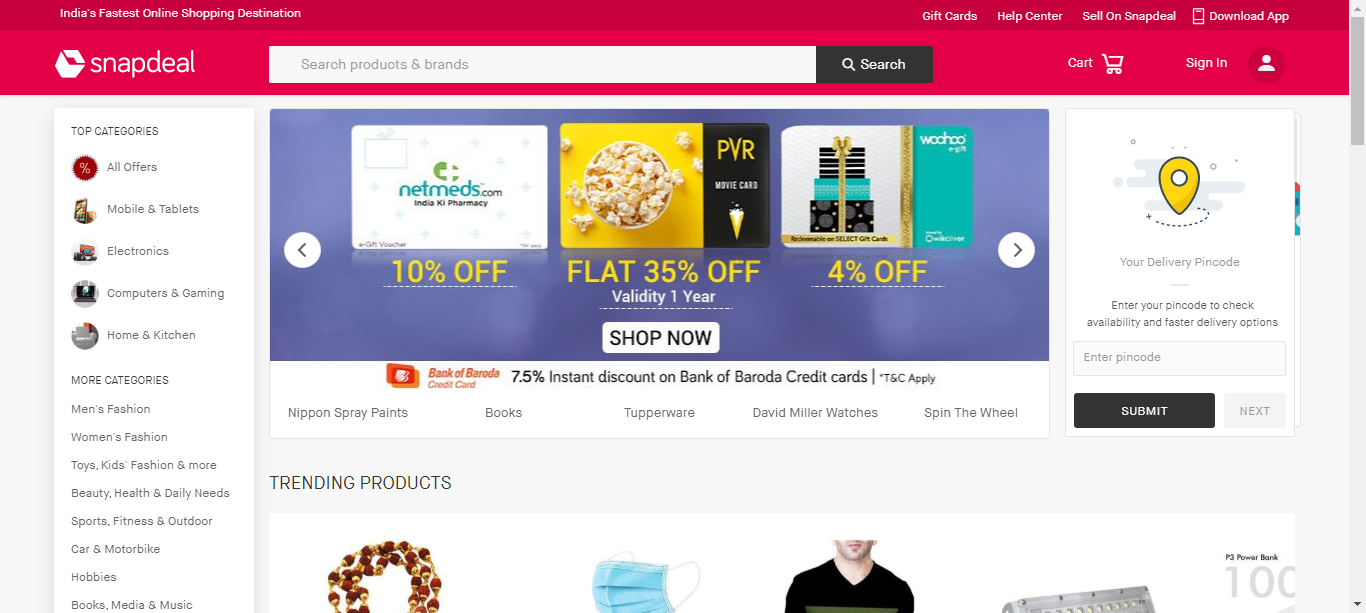
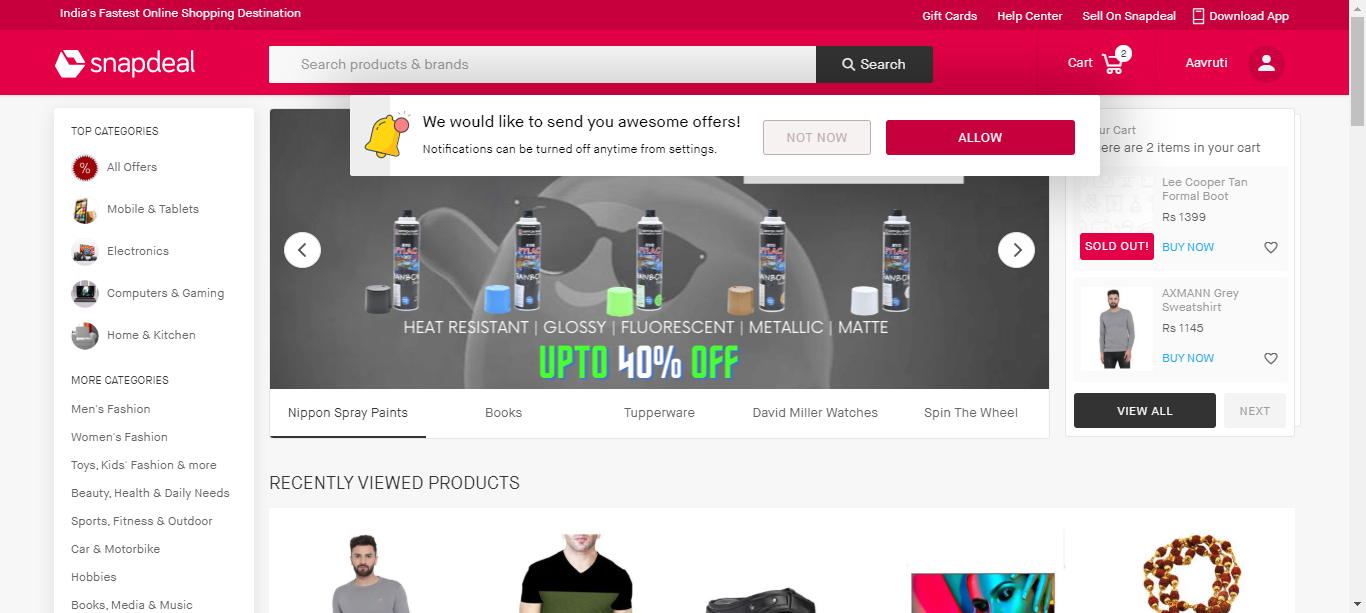
Framework7

diff --git a/test-output/index.html b/test-output/index.html
@@ -49,7 +49,7 @@
               <ul>
                 <li>
                   <a href="#" class="navigator-link " panel-name="test-xml-Default_suite">
-                    <span>C:\Users\AAVRUTI\AppData\Local\Temp\testng-eclipse--2083444913\testng-customsuite.xml</span>
+                    <span>C:\Users\AAVRUTI\AppData\Local\Temp\testng-eclipse-1803467441\testng-customsuite.xml</span>
                   </a> <!-- navigator-link  -->
                 </li>
                 <li>
@@ -102,7 +102,7 @@
                     <div class="method-list-content passed suite-Default_suite">
                       <span>
                         <img width="3%" src="passed.png"/>
-                        <a href="#" class="method navigator-link" panel-name="suite-Default_suite" title="com.technocredits.snapdeal.testscripts.SnapDealLoginTest" hash-for-method="loginVerification(8485033276, viplove01, Aavruti)">loginVerification(8485033276, viplove01, Aavruti)</a> <!-- method navigator-link -->
+                        <a href="#" class="method navigator-link" panel-name="suite-Default_suite" title="com.technocredits.snapdeal.testscripts.SnapDealLoginTest" hash-for-method="loginVerification(aavrutid@yahoo.com, Viplove@01, Aavruti Dalmia)">loginVerification(aavrutid@yahoo.com, Viplove@01, Aavruti Dalmia)</a> <!-- method navigator-link -->
                       </span>
                       <br/>
                     </div> <!-- method-list-content passed suite-Default_suite -->
@@ -125,10 +125,10 @@
             <div class="main-panel-content rounded-window-bottom">
               <div class="method">
                 <div class="method-content">
-                  <a name="loginVerification(8485033276, viplove01, Aavruti)">
-                  </a> <!-- loginVerification(8485033276, viplove01, Aavruti) -->
+                  <a name="loginVerification(aavrutid@yahoo.com, Viplove@01, Aavruti Dalmia)">
+                  </a> <!-- loginVerification(aavrutid@yahoo.com, Viplove@01, Aavruti Dalmia) -->
                   <span class="method-name">loginVerification</span>
-                  <span class="parameters">(8485033276, viplove01, Aavruti)</span>
+                  <span class="parameters">(aavrutid@yahoo.com, Viplove@01, Aavruti Dalmia)</span>
                 </div> <!-- method-content -->
               </div> <!-- method -->
             </div> <!-- main-panel-content rounded-window-bottom -->
@@ -136,7 +136,7 @@
         </div> <!-- panel Default_suite -->
         <div panel-name="test-xml-Default_suite" class="panel">
           <div class="main-panel-header rounded-window-top">
-            <span class="header-content">C:\Users\AAVRUTI\AppData\Local\Temp\testng-eclipse--2083444913\testng-customsuite.xml</span>
+            <span class="header-content">C:\Users\AAVRUTI\AppData\Local\Temp\testng-eclipse-1803467441\testng-customsuite.xml</span>
           </div> <!-- main-panel-header rounded-window-top -->
           <div class="main-panel-content rounded-window-bottom">
             <pre>
@@ -189,12 +189,12 @@ data.addRows(1);
 data.setCell(0, 0, 0)
 data.setCell(0, 1, 'loginVerification')
 data.setCell(0, 2, 'com.technocredits.snapdeal.testscripts.SnapDealLoginTest')
-data.setCell(0, 3, 12406);
+data.setCell(0, 3, 82379);
 window.suiteTableData['Default_suite']= { tableData: data, tableDiv: 'times-div-Default_suite'}
 return data;
 }
               </script>
-              <span class="suite-total-time">Total running time: 12 seconds</span>
+              <span class="suite-total-time">Total running time: 1 minutes</span>
               <div id="times-div-Default_suite">
               </div> <!-- times-div-Default_suite -->
             </div> <!-- times-div -->
@@ -226,12 +226,12 @@ return data;
                 <span class="method-start">0 ms</span>
               </div> <!-- configuration-method before -->
               <div class="test-method">
-                <span class="method-name">loginVerification(8485033276, viplove01, Aavruti)</span>
-                <span class="method-start">15925 ms</span>
+                <span class="method-name">loginVerification(aavrutid@yahoo.com, Viplove@01, Aavruti Dalmia)</span>
+                <span class="method-start">15210 ms</span>
               </div> <!-- test-method -->
               <div class="configuration-method after">
                 <span class="method-name">teardown([TestResult name=loginVerification status=SUCCESS method=SnapDealLoginTest.loginVerification(java.la...)</span>
-                <span class="method-start">28334 ms</span>
+                <span class="method-start">97591 ms</span>
               </div> <!-- configuration-method after -->
           </div> <!-- main-panel-content rounded-window-bottom -->
         </div> <!-- panel -->

diff --git a/test-output/emailable-report.html b/test-output/emailable-report.html
@@ -1,2 +1,2 @@
 <!DOCTYPE html PUBLIC "-//W3C//DTD XHTML 1.1//EN" "http://www.w3.org/TR/xhtml11/DTD/xhtml11.dtd">
-<html xmlns="http://www.w3.org/1999/xhtml"><head><title>TestNG Report</title><style type="text/css">table {margin-bottom:10px;border-collapse:collapse;empty-cells:show}th,td {border:1px solid #009;padding:.25em .5em}th {vertical-align:bottom}td {vertical-align:top}table a {font-weight:bold}.stripe td {background-color: #E6EBF9}.num {text-align:right}.passedodd td {background-color: #3F3}.passedeven td {background-color: #0A0}.skippedodd td {background-color: #DDD}.skippedeven td {background-color: #CCC}.failedodd td,.attn {background-color: #F33}.failedeven td,.stripe .attn {background-color: #D00}.stacktrace {white-space:pre;font-family:monospace}.totop {font-size:85%;text-align:center;border-bottom:2px solid #000}</style></head><body><table><tr><th>Test</th><th># Passed</th><th># Skipped</th><th># Failed</th><th>Time (ms)</th><th>Included Groups</th><th>Excluded Groups</th></tr><tr><th colspan="7">Default suite</th></tr><tr><td><a href="#t0">Default test</a></td><td class="num">1</td><td class="num">0</td><td class="num">0</td><td class="num">32,931</td><td></td><td></td></tr></table><table><thead><tr><th>Class</th><th>Method</th><th>Start</th><th>Time (ms)</th></tr></thead><tbody><tr><th colspan="4">Default suite</th></tr></tbody><tbody id="t0"><tr><th colspan="4">Default test &#8212; passed</th></tr><tr class="passedeven"><td rowspan="1">com.technocredits.snapdeal.testscripts.SnapDealLoginTest</td><td><a href="#m0">loginVerification</a></td><td rowspan="1">1600448365531</td><td rowspan="1">12406</td></tr></tbody></table><h2>Default test</h2><h3 id="m0">com.technocredits.snapdeal.testscripts.SnapDealLoginTest#loginVerification</h3><table class="result"><tr class="param"><th>Parameter #1</th><th>Parameter #2</th><th>Parameter #3</th></tr><tr class="param stripe"><td>8485033276</td><td>viplove01</td><td>Aavruti</td></tr></table><p class="totop"><a href="#summary">back to summary</a></p></body></html>
+<html xmlns="http://www.w3.org/1999/xhtml"><head><title>TestNG Report</title><style type="text/css">table {margin-bottom:10px;border-collapse:collapse;empty-cells:show}th,td {border:1px solid #009;padding:.25em .5em}th {vertical-align:bottom}td {vertical-align:top}table a {font-weight:bold}.stripe td {background-color: #E6EBF9}.num {text-align:right}.passedodd td {background-color: #3F3}.passedeven td {background-color: #0A0}.skippedodd td {background-color: #DDD}.skippedeven td {background-color: #CCC}.failedodd td,.attn {background-color: #F33}.failedeven td,.stripe .attn {background-color: #D00}.stacktrace {white-space:pre;font-family:monospace}.totop {font-size:85%;text-align:center;border-bottom:2px solid #000}</style></head><body><table><tr><th>Test</th><th># Passed</th><th># Skipped</th><th># Failed</th><th>Time (ms)</th><th>Included Groups</th><th>Excluded Groups</th></tr><tr><th colspan="7">Default suite</th></tr><tr><td><a href="#t0">Default test</a></td><td class="num">1</td><td class="num">0</td><td class="num">0</td><td class="num">103,349</td><td></td><td></td></tr></table><table><thead><tr><th>Class</th><th>Method</th><th>Start</th><th>Time (ms)</th></tr></thead><tbody><tr><th colspan="4">Default suite</th></tr></tbody><tbody id="t0"><tr><th colspan="4">Default test &#8212; passed</th></tr><tr class="passedeven"><td rowspan="1">com.technocredits.snapdeal.testscripts.SnapDealLoginTest</td><td><a href="#m0">loginVerification</a></td><td rowspan="1">1600540336900</td><td rowspan="1">82379</td></tr></tbody></table><h2>Default test</h2><h3 id="m0">com.technocredits.snapdeal.testscripts.SnapDealLoginTest#loginVerification</h3><table class="result"><tr class="param"><th>Parameter #1</th><th>Parameter #2</th><th>Parameter #3</th></tr><tr class="param stripe"><td>aavrutid@yahoo.com</td><td>Viplove@01</td><td>Aavruti Dalmia</td></tr></table><p class="totop"><a href="#summary">back to summary</a></p></body></html>

diff --git a/test-output/old/Default suite/methods-alphabetical.html b/test-output/old/Default suite/methods-alphabetical.html
@@ -1,10 +1,10 @@
 <h2>Methods run, sorted chronologically</h2><h3>&gt;&gt; means before, &lt;&lt; means after</h3><p/><br/><em>Default suite</em><p/><small><i>(Hover the method name to see the test class name)</i></small><p/>
 <table border="1">
 <tr><th>Time</th><th>Delta (ms)</th><th>Suite<br>configuration</th><th>Test<br>configuration</th><th>Class<br>configuration</th><th>Groups<br>configuration</th><th>Method<br>configuration</th><th>Test<br>method</th><th>Thread</th><th>Instances</th></tr>
-<tr bgcolor="9d9cb5">  <td>20/09/18 22:29:25</td>   <td>0</td> <td>&nbsp;</td><td>&nbsp;</td><td>&nbsp;</td><td>&nbsp;</td><td>&nbsp;</td><td title="SnapDealLoginTest.loginVerification(java.lang.String, java.lang.String, java.lang.String)[pri:0, instance:com.technocredits.snapdeal.testscripts.SnapDealLoginTest@18be83e4]">loginVerification</td> 
+<tr bgcolor="9d9cb5">  <td>20/09/20 00:02:16</td>   <td>0</td> <td>&nbsp;</td><td>&nbsp;</td><td>&nbsp;</td><td>&nbsp;</td><td>&nbsp;</td><td title="SnapDealLoginTest.loginVerification(java.lang.String, java.lang.String, java.lang.String)[pri:0, instance:com.technocredits.snapdeal.testscripts.SnapDealLoginTest@18be83e4]">loginVerification</td> 
   <td>main@1967892594</td>   <td></td> </tr>
-<tr bgcolor="e6e9c3">  <td>20/09/18 22:29:09</td>   <td>-15925</td> <td>&nbsp;</td><td>&nbsp;</td><td>&nbsp;</td><td>&nbsp;</td><td title="&gt;&gt;TestBase.setup()[pri:0, instance:com.technocredits.snapdeal.testscripts.SnapDealLoginTest@18be83e4]">&gt;&gt;setup</td> 
+<tr bgcolor="e6e9c3">  <td>20/09/20 00:02:01</td>   <td>-15209</td> <td>&nbsp;</td><td>&nbsp;</td><td>&nbsp;</td><td>&nbsp;</td><td title="&gt;&gt;TestBase.setup()[pri:0, instance:com.technocredits.snapdeal.testscripts.SnapDealLoginTest@18be83e4]">&gt;&gt;setup</td> 
 <td>&nbsp;</td>  <td>main@1967892594</td>   <td></td> </tr>
-<tr bgcolor="e6e9c3">  <td>20/09/18 22:29:37</td>   <td>12410</td> <td>&nbsp;</td><td>&nbsp;</td><td>&nbsp;</td><td>&nbsp;</td><td title="&lt;&lt;TestBase.teardown(org.testng.ITestResult)[pri:0, instance:com.technocredits.snapdeal.testscripts.SnapDealLoginTest@18be83e4]">&lt;&lt;teardown</td> 
+<tr bgcolor="e6e9c3">  <td>20/09/20 00:03:39</td>   <td>82382</td> <td>&nbsp;</td><td>&nbsp;</td><td>&nbsp;</td><td>&nbsp;</td><td title="&lt;&lt;TestBase.teardown(org.testng.ITestResult)[pri:0, instance:com.technocredits.snapdeal.testscripts.SnapDealLoginTest@18be83e4]">&lt;&lt;teardown</td> 
 <td>&nbsp;</td>  <td>main@1967892594</td>   <td></td> </tr>
 </table>

diff --git a/test-output/old/Default suite/methods.html b/test-output/old/Default suite/methods.html
@@ -1,10 +1,10 @@
 <h2>Methods run, sorted chronologically</h2><h3>&gt;&gt; means before, &lt;&lt; means after</h3><p/><br/><em>Default suite</em><p/><small><i>(Hover the method name to see the test class name)</i></small><p/>
 <table border="1">
 <tr><th>Time</th><th>Delta (ms)</th><th>Suite<br>configuration</th><th>Test<br>configuration</th><th>Class<br>configuration</th><th>Groups<br>configuration</th><th>Method<br>configuration</th><th>Test<br>method</th><th>Thread</th><th>Instances</th></tr>
-<tr bgcolor="e6e9c3">  <td>20/09/18 22:29:09</td>   <td>0</td> <td>&nbsp;</td><td>&nbsp;</td><td>&nbsp;</td><td>&nbsp;</td><td title="&gt;&gt;TestBase.setup()[pri:0, instance:com.technocredits.snapdeal.testscripts.SnapDealLoginTest@18be83e4]">&gt;&gt;setup</td> 
+<tr bgcolor="e6e9c3">  <td>20/09/20 00:02:01</td>   <td>0</td> <td>&nbsp;</td><td>&nbsp;</td><td>&nbsp;</td><td>&nbsp;</td><td title="&gt;&gt;TestBase.setup()[pri:0, instance:com.technocredits.snapdeal.testscripts.SnapDealLoginTest@18be83e4]">&gt;&gt;setup</td> 
 <td>&nbsp;</td>  <td>main@1967892594</td>   <td></td> </tr>
-<tr bgcolor="9d9cb5">  <td>20/09/18 22:29:25</td>   <td>15925</td> <td>&nbsp;</td><td>&nbsp;</td><td>&nbsp;</td><td>&nbsp;</td><td>&nbsp;</td><td title="SnapDealLoginTest.loginVerification(java.lang.String, java.lang.String, java.lang.String)[pri:0, instance:com.technocredits.snapdeal.testscripts.SnapDealLoginTest@18be83e4]">loginVerification</td> 
+<tr bgcolor="9d9cb5">  <td>20/09/20 00:02:16</td>   <td>15209</td> <td>&nbsp;</td><td>&nbsp;</td><td>&nbsp;</td><td>&nbsp;</td><td>&nbsp;</td><td title="SnapDealLoginTest.loginVerification(java.lang.String, java.lang.String, java.lang.String)[pri:0, instance:com.technocredits.snapdeal.testscripts.SnapDealLoginTest@18be83e4]">loginVerification</td> 
   <td>main@1967892594</td>   <td></td> </tr>
-<tr bgcolor="e6e9c3">  <td>20/09/18 22:29:37</td>   <td>28335</td> <td>&nbsp;</td><td>&nbsp;</td><td>&nbsp;</td><td>&nbsp;</td><td title="&lt;&lt;TestBase.teardown(org.testng.ITestResult)[pri:0, instance:com.technocredits.snapdeal.testscripts.SnapDealLoginTest@18be83e4]">&lt;&lt;teardown</td> 
+<tr bgcolor="e6e9c3">  <td>20/09/20 00:03:39</td>   <td>97591</td> <td>&nbsp;</td><td>&nbsp;</td><td>&nbsp;</td><td>&nbsp;</td><td title="&lt;&lt;TestBase.teardown(org.testng.ITestResult)[pri:0, instance:com.technocredits.snapdeal.testscripts.SnapDealLoginTest@18be83e4]">&lt;&lt;teardown</td> 
 <td>&nbsp;</td>  <td>main@1967892594</td>   <td></td> </tr>
 </table>

diff --git a/test-output/Default suite/Default test.html b/test-output/Default suite/Default test.html
@@ -57,9 +57,9 @@ function toggleAllBoxes() {
 <tr>
 <td>Tests passed/Failed/Skipped:</td><td>1/0/0</td>
 </tr><tr>
-<td>Started on:</td><td>Fri Sep 18 22:29:07 IST 2020</td>
+<td>Started on:</td><td>Sun Sep 20 00:02:00 IST 2020</td>
 </tr>
-<tr><td>Total time:</td><td>32 seconds (32931 ms)</td>
+<tr><td>Total time:</td><td>103 seconds (103349 ms)</td>
 </tr><tr>
 <td>Included groups:</td><td></td>
 </tr><tr>
@@ -75,9 +75,9 @@ function toggleAllBoxes() {
 <td><b>Instance</b></td>
 </tr>
 <tr>
-<td title='com.technocredits.snapdeal.testscripts.SnapDealLoginTest.loginVerification()'><b>loginVerification</b><br>Test class: com.technocredits.snapdeal.testscripts.SnapDealLoginTest<br>Parameters: 8485033276, viplove01, Aavruti</td>
+<td title='com.technocredits.snapdeal.testscripts.SnapDealLoginTest.loginVerification()'><b>loginVerification</b><br>Test class: com.technocredits.snapdeal.testscripts.SnapDealLoginTest<br>Parameters: aavrutid@yahoo.com, Viplove@01, Aavruti Dalmia</td>
 <td></td>
-<td>12</td>
+<td>82</td>
 <td>com.technocredits.snapdeal.testscripts.SnapDealLoginTest@18be83e4</td></tr>
 </table><p>
 </body>

diff --git a/src/pages/EmailPage.java b/src/pages/EmailPage.java
@@ -1,0 +1,79 @@
+package pages;
+
+import java.io.IOException;
+import java.util.ArrayList;
+
+import org.testng.Assert;
+
+import base.PredefinedActions;
+import constant.ConstantPath;
+import util.PropertyFileOperation;
+
+class EmailPage extends PredefinedActions{
+
+	private static EmailPage emailPage;
+	private PropertyFileOperation propOperation;
+	private String mainWindow;
+	
+	private EmailPage() {
+		try {
+			propOperation = new PropertyFileOperation(ConstantPath.LOCATORPATH +"EmailPageProp.properties");
+		} catch (IOException e) {
+			System.out.println("Dashboard Page property file not found");
+			//Custom exception --> unchecked exception
+		}
+	}
+	
+	static EmailPage getEmailPageObject() {
+		if(emailPage==null)
+			emailPage = new EmailPage();
+		return emailPage;
+	}
+	
+	private void switchToNewTab() {
+		ArrayList<String> allWindow = new ArrayList<>(getAllWindowHandleId());
+		allWindow.remove(mainWindow);
+		switchToWindow(allWindow.get(0));
+	}
+	
+	private void enterCredentials(String userId, String userPassword) {
+		clickOnElement(propOperation.propReadValue("yahoo_signInButton"), true);
+		enterTextValue(propOperation.propReadValue("yahoo_userName"), true, userId);
+		clickOnElement(propOperation.propReadValue("yahoo_nextButton"));
+		
+		enterTextValue(propOperation.propReadValue("yahoo_password"), true, userPassword);
+		clickOnElement(propOperation.propReadValue("yahoo_nextButton"));
+		
+		String actualName = getElementText(propOperation.propReadValue("yahoo_signInName"),true);
+		Assert.assertEquals(actualName,"Aavruti");
+	}
+	
+	private void handleSkipNotification() {
+		if(isElementPresent(propOperation.propReadValue("yahoo_notification_skip"), false)) {
+			clickOnElement(propOperation.propReadValue("yahoo_notification_skip"));
+		}
+	}
+	
+	private String hoverMailAndGetOTP() {
+		hoverToElement(getElement(propOperation.propReadValue("yahoo_mailbox_hover")));
+		String emailText = getElementText(propOperation.propReadValue("yahoo_mailBox_text"), true);
+		String otpText = emailText.split(" ")[0];
+		return otpText;
+	}
+	
+	String getOTP(String userId, String userPassword) {
+		mainWindow = getMainWindowHandleId();
+		openNewTab();	
+		
+		switchToNewTab();		
+		navigateToURL("http://yahoo.com");		
+		enterCredentials(userId, userPassword);
+		handleSkipNotification();		
+		String otpText = hoverMailAndGetOTP();
+		closeBrowser();
+		switchToWindow(mainWindow);		
+		return otpText;
+	}	
+	
+	
+}

diff --git a/src/pages/DashboardPage.java b/src/pages/DashboardPage.java
@@ -4,6 +4,7 @@ import java.io.IOException;
 import java.util.*;
 
 import base.PredefinedActions;
+import constant.ConstantPath;
 import util.PropertyFileOperation;
 
 public class DashboardPage extends PredefinedActions{
@@ -14,7 +15,7 @@ public class DashboardPage extends PredefinedActions{
 
 	private DashboardPage() {
 		try {
-			propOperation = new PropertyFileOperation(".//resources//config//DashboardPageProp.properties");
+			propOperation = new PropertyFileOperation(ConstantPath.LOCATORPATH +"DashboardPageProp.properties");
 		} catch (IOException e) {
 			System.out.println("Dashboard Page property file not found");
 			//Custom exception --> unchecked exception
@@ -93,8 +94,17 @@ public class DashboardPage extends PredefinedActions{
 		switchToLoginFrame();	
 		enterTextValue(propOperation.propReadValue("loginUserName"), false, userId);
 		clickOnElement(propOperation.propReadValue("continueButton"));
-		enterTextValue(propOperation.propReadValue("loginPassword"), true, userPassword);
-		clickOnElement(propOperation.propReadValue("keepLoggedInChecbox"));
-		clickOnElement(propOperation.propReadValue("signInLoginButton"));
+		if(isElementPresent(propOperation.propReadValue("otpTextBox"), true)) {
+			EmailPage emailPage = EmailPage.getEmailPageObject();
+			String otpText = emailPage.getOTP(userId,userPassword);
+			switchToLoginFrame();
+			enterTextValue(propOperation.propReadValue("otpTextBox"), false, otpText);
+			clickOnElement(propOperation.propReadValue("otpContinueButton"));
+		}
+		else {
+			enterTextValue(propOperation.propReadValue("loginPassword"), true, userPassword);
+			clickOnElement(propOperation.propReadValue("keepLoggedInChecbox"));
+			clickOnElement(propOperation.propReadValue("signInLoginButton"));
+		}		
 	}
 }

diff --git a/src/base/PredefinedActions.java b/src/base/PredefinedActions.java
@@ -4,6 +4,7 @@ import java.io.*;
 import java.util.*;
 
 import org.openqa.selenium.*;
+import org.openqa.selenium.NoSuchElementException;
 import org.openqa.selenium.chrome.ChromeDriver;
 import org.openqa.selenium.interactions.Actions;
 import org.openqa.selenium.support.ui.ExpectedConditions;
@@ -154,6 +155,15 @@ public abstract class PredefinedActions {
 	protected boolean isElementEnabled(String locator, boolean isWaitRequired) {
 		return getElement(locator, isWaitRequired).isEnabled();
 	}
+	
+	protected boolean isElementPresent(String locator, boolean isWaitRequired) {
+		try {
+			getElement(locator, isWaitRequired);
+			return true;
+		}catch(NoSuchElementException ne) {
+			return false;
+		}
+	}
 
 	public static void captureScreenshot(String fileName) {
 		TakesScreenshot ts = (TakesScreenshot) driver;
@@ -165,7 +175,17 @@ public abstract class PredefinedActions {
 			e.printStackTrace();
 		}
 	}
+	
+	protected void navigateToURL(String url) {
+		driver.navigate().to(url);
+	}
 
+	protected void openNewTab() {
+		//action.keyDown(Keys.CONTROL).sendKeys("t").keyUp(Keys.CONTROL).build().perform();		
+		JavascriptExecutor js = (JavascriptExecutor) driver;
+		js.executeScript("window.open()");
+	}
+	
 	public static void closeBrowser() {
 		driver.close();
 	}

diff --git a/src/constant/ConstantPath.java b/src/constant/ConstantPath.java
@@ -6,7 +6,7 @@ public class ConstantPath {
 
 	public final static String SCREENSHOT = "."+ File.separator +"screenshot"+ File.separator;
 	public final static String SCREENSHOTEXTENSION = ".png";
-	public final static String LOCATORPATH = "."+ File.separator +"resources"+ File.separator + "config";
+	public final static String LOCATORPATH = "."+ File.separator +"resources"+ File.separator + "config" + File.separator;
 	public final static String LOGINTESTDATA = "."+ File.separator + "resources"+ File.separator + "testdata"+ File.separator + "TestData.xlsx";
 	public final static String LOGINTESTDATASHEET = "LoginData";
 }

diff --git a/src/com/technocredits/snapdeal/testscripts/SnapDealLoginTest.java b/src/com/technocredits/snapdeal/testscripts/SnapDealLoginTest.java
@@ -13,7 +13,6 @@ public class SnapDealLoginTest extends TestBase{
 
 	@Test(dataProvider="loginDataProvider")
 	public void loginVerification(String userId, String password, String userName) {
-		System.out.println(userId + password + userName);
 		DashboardPage dashboardPage = getDashboardPage();
 		dashboardPage.doLogin(userId, password);
 		String actualUserName = dashboardPage.getSignInUserName();
